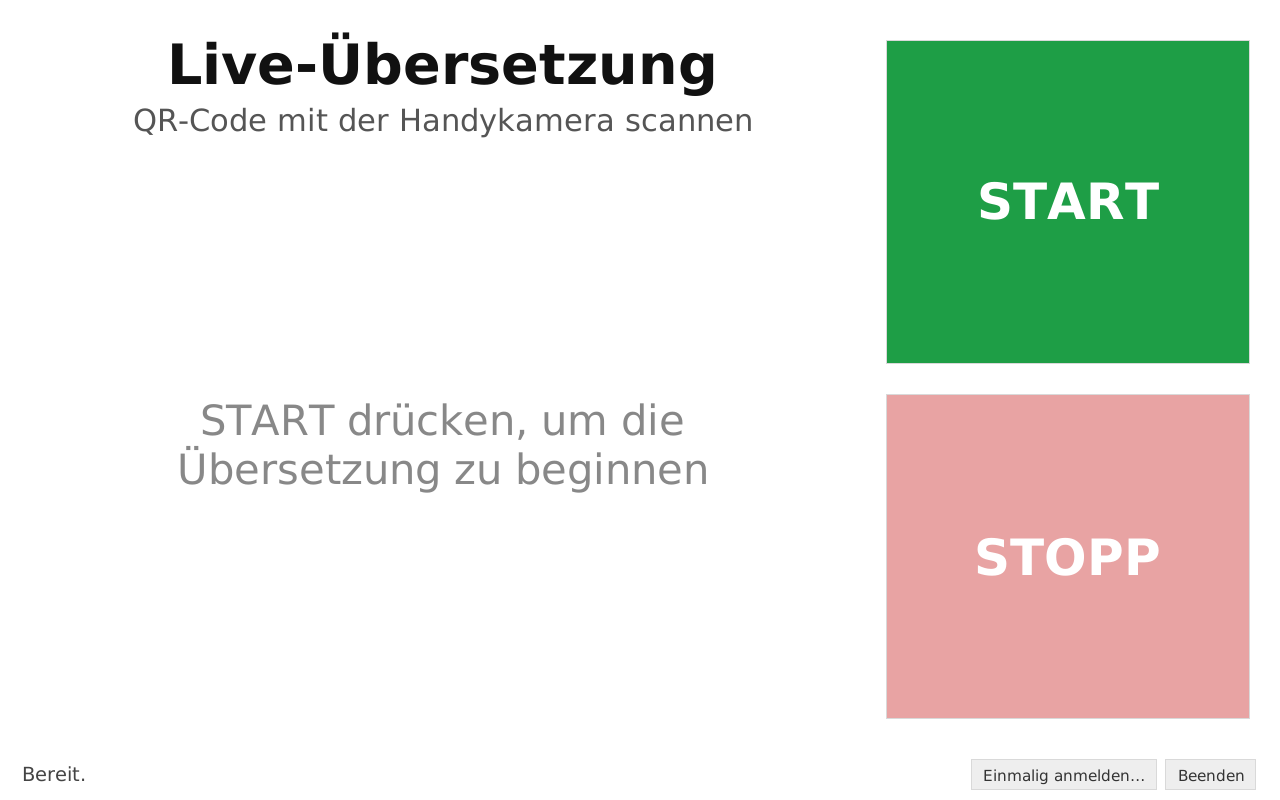
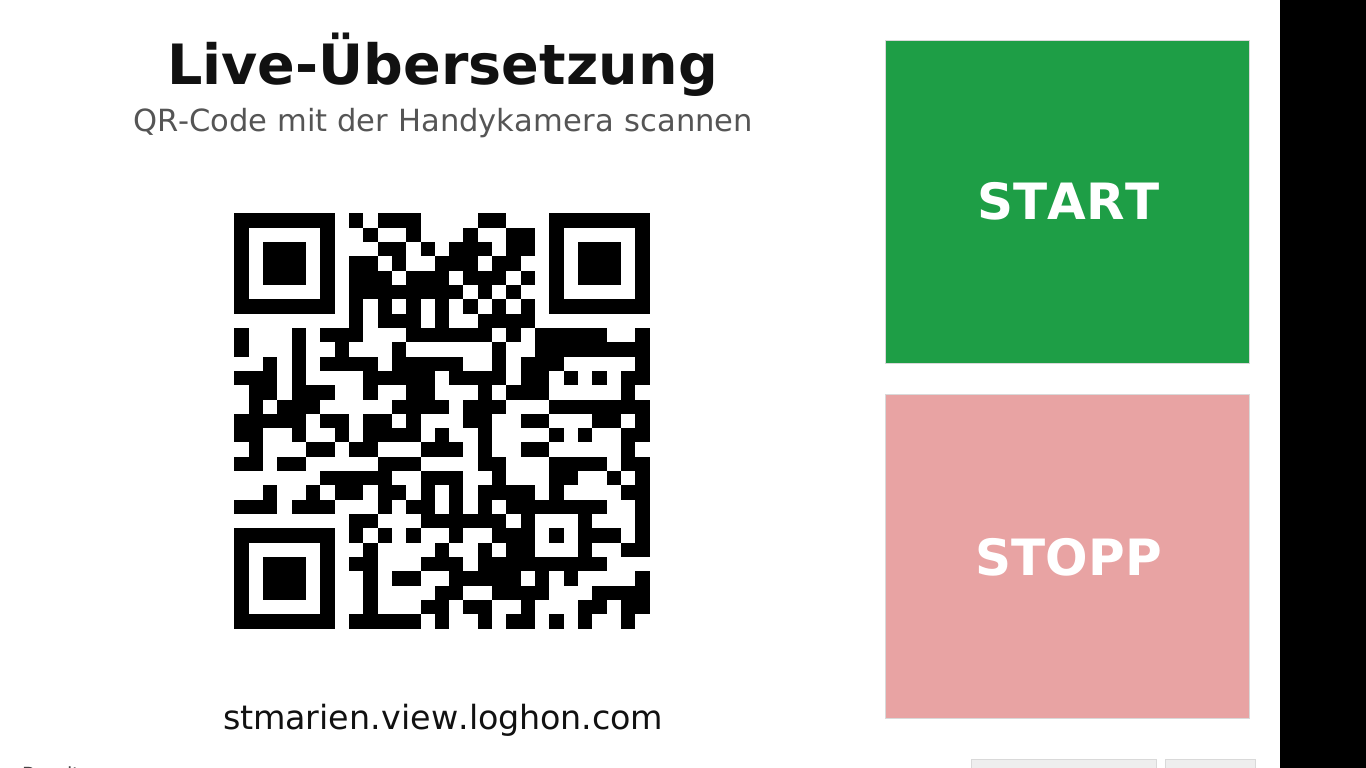
Fixed QR code from the start; make STOPP work with Loghon boxes open
- The QR code is the account's fixed viewer link (viewer_url), drawn by
  the app and shown from startup with the link as text. START checks for
  Loghon's 'Recording Active' instead of looking for a QR code.
- STOPP closes open Loghon dialogs (the viewer/QR box covered the stop
  button and swallowed the click), uses Loghon's #endTranslation button,
  and retries a covered click. After a failed stop, STOPP is enabled
  again; error messages are cut to one short line.
- run.sh installs new requirements (qrcode) after a git pull.

Claude-Session: https://claude.ai/code/session_01AYNLqbjaQqfuHUCQ7JjhBm

diff --git a/tests/mock_site/index.html b/tests/mock_site/index.html
@@ -18,8 +18,10 @@
   <button id="cancel">Cancel</button> <button id="rec">Start Recording</button>
 </div>
 <section id="live" hidden>
+  <div class="banner">Recording Active</div>
   <div class="qr-box"><canvas id="qr" width="200" height="200"></canvas></div>
-  <button id="stop">Stop</button>
+  <button id="endTranslation" title="End translation">&#9632;</button>
+  <dialog id="viewer"><h3>Viewer Access Settings</h3><button>Apply</button> <button>Cancel</button></dialog>
 </section>
 <pre id="log"></pre>
 <script>
@@ -47,8 +49,10 @@ $('rec').onclick = async () => {
   for (let i = 0; i < 20; i++) for (let j = 0; j < 20; j++)
     { c.fillStyle = (i * 7 + j * 3) % 5 < 2 ? '#000' : '#fff'; c.fillRect(i * 10, j * 10, 10, 10); }
   log('started');
+  // Like a person who opened the QR box and left it open, covering the page.
+  setTimeout(() => $('viewer').showModal(), 500);
 };
-$('stop').onclick = async () => {
+$('endTranslation').onclick = async () => {
   if ((await (await fetch('/stuck')).text()) === '1') return log('stop ignored'); if (confirm('End the translation?')) { $('live').hidden = true; $('app').hidden = false; log('stopped'); } };
 </script>
 </body></html>

diff --git a/loghon_kiosk/driver.py b/loghon_kiosk/driver.py
@@ -83,11 +83,15 @@ class LoghonDriver:
                     return
             except Exception as e:  # report everything to the UI
                 self._dump_debug(f"{cmd}-failed")
-                self.emit(("error", f"{CMD_DE.get(cmd, cmd)} fehlgeschlagen: {e}"))
+                # Keep it to one short line; the details go to the terminal.
+                short = str(e).strip().splitlines()[0][:160] if str(e).strip() else type(e).__name__
+                self.emit(("error", f"{CMD_DE.get(cmd, cmd)} fehlgeschlagen: {short}"))
                 traceback.print_exc()
                 if cmd == "start":
                     self._running = False
                     self.emit(("state", "idle"))
+                elif cmd == "stop" and self._running:
+                    self.emit(("state", "running"))  # STOPP can be pressed again
 
     # ---- browser lifecycle -------------------------------------------
     def _open_browser(self, visible: bool) -> Page:
@@ -233,14 +237,24 @@ class LoghonDriver:
             else:
                 self._dump_debug("no-start-recording")
 
-        self.emit(("status", "Warte auf den QR-Code…"))
-        png = self._grab_qr(page, timeout=self.s.step_timeout_seconds)
-        if png is None:
-            self._dump_debug("no-qr")
-            self.emit(("status", "Übersetzung gestartet, aber der QR-Code wurde auf der Seite nicht gefunden."))
+        if self.s.viewer_url:
+            # The QR code is the account's fixed viewer link, drawn by the app
+            # itself; just check that Loghon shows the recording as active.
+            if self._wait_text(page, self.s.running_texts, self.s.step_timeout_seconds):
+                self.emit(("status", "Die Übersetzung läuft."))
+            else:
+                self._dump_debug("not-recording")
+                self.emit(("error", "Gestartet, aber Loghon zeigt keine laufende Aufnahme. "
+                                    "Bitte im Loghon-Fenster nachsehen."))
         else:
-            self._publish_qr(png)
-            self.emit(("status", "Die Übersetzung läuft. QR-Code scannen."))
+            self.emit(("status", "Warte auf den QR-Code…"))
+            png = self._grab_qr(page, timeout=self.s.step_timeout_seconds)
+            if png is None:
+                self._dump_debug("no-qr")
+                self.emit(("status", "Übersetzung gestartet, aber der QR-Code wurde auf der Seite nicht gefunden."))
+            else:
+                self._publish_qr(png)
+                self.emit(("status", "Die Übersetzung läuft. QR-Code scannen."))
         self._running = True
         self.emit(("state", "running"))
 
@@ -301,6 +315,17 @@ class LoghonDriver:
             submit.click()
         else:
             pw.first.press("Enter")
+
+    @staticmethod
+    def _wait_text(page: Page, texts: list[str], timeout: float) -> bool:
+        if not texts:
+            return True
+        rx = re.compile("|".join(re.escape(t) for t in texts), re.I)
+        try:
+            page.get_by_text(rx).first.wait_for(state="visible", timeout=timeout * 1000)
+            return True
+        except Exception:
+            return False
 
     @staticmethod
     def _gone(loc: Locator, timeout: float) -> bool:
@@ -415,6 +440,8 @@ class LoghonDriver:
             self.emit(("error", "Das Loghon-Browserfenster wurde geschlossen."))
             self.emit(("state", "idle"))
             return
+        if self.s.viewer_url:
+            return  # fixed QR code, nothing to refresh
         try:
             loc = self._find_qr(page)
             if loc is not None:
@@ -435,9 +462,12 @@ class LoghonDriver:
             return True
         self.emit(("state", "stopping"))
         self.emit(("status", "Übersetzung wird gestoppt…"))
-        btn = self._find_clickable(page, self.s.stop_buttons, timeout=self.s.step_timeout_seconds)
+        # Boxes left open on the Loghon page (e.g. the QR/viewer settings)
+        # lie on top of the stop button and swallow the click.
+        self._close_overlays(page)
+        btn = self._find_stop_button(page, timeout=self.s.step_timeout_seconds)
         if btn:
-            btn.click()
+            self._click(page, btn)
             self._settle(page)
             for text in self.s.confirm_stop_buttons:
                 loc = self._find_clickable(page, [text], timeout=2)
@@ -461,7 +491,7 @@ class LoghonDriver:
     def _stop_button_gone(self, page: Page, timeout: float = 10) -> bool:
         deadline = time.time() + timeout
         while time.time() < deadline:
-            if self._find_clickable(page, self.s.stop_buttons, timeout=0) is None:
+            if self._find_stop_button(page, timeout=0) is None:
                 return True
             page.wait_for_timeout(500)
         return False
@@ -477,6 +507,43 @@ class LoghonDriver:
             page.bring_to_front()
         except Exception:
             pass  # headless mode has no window to show
+
+    def _find_stop_button(self, page: Page, timeout: float) -> Locator | None:
+        deadline = time.time() + timeout
+        while True:
+            for sel in self.s.stop_selectors:  # Loghon's own button id first
+                loc = page.locator(sel)
+                try:
+                    if loc.count() and loc.first.is_visible() and loc.first.is_enabled():
+                        return loc.first
+                except Exception:
+                    pass
+            btn = self._find_clickable(page, self.s.stop_buttons, timeout=0)
+            if btn or time.time() >= deadline:
+                return btn
+            page.wait_for_timeout(400)
+
+    @staticmethod
+    def _close_overlays(page: Page) -> None:
+        try:
+            page.keyboard.press("Escape")
+            page.evaluate("document.querySelectorAll('dialog[open]').forEach(d => d.close())")
+            page.wait_for_timeout(300)
+        except Exception:
+            pass
+
+    def _click(self, page: Page, loc: Locator) -> None:
+        """Click; if something still covers the button, close it and retry."""
+        try:
+            loc.click(timeout=5000)
+            return
+        except Exception:
+            pass
+        self._close_overlays(page)
+        try:
+            loc.click(timeout=5000)
+        except Exception:
+            loc.dispatch_event("click")  # same as the page's own click handler
 
     def _safe_stop_on_quit(self) -> bool:
         if not self._running:

diff --git a/loghon_kiosk/app.py b/loghon_kiosk/app.py
@@ -8,6 +8,7 @@ import sys
 import tkinter as tk
 from tkinter import messagebox
 
+import qrcode
 from PIL import Image, ImageTk
 
 from . import config
@@ -53,6 +54,11 @@ class KioskApp:
         self.sub_lbl.pack(side="top", pady=(0, 10))
         self.qr_lbl = tk.Label(left, bg=BG, fg="#888", font=("DejaVu Sans", 30),
                                text="START drücken, um die\nÜbersetzung zu beginnen")
+        if settings.viewer_url:
+            # The link in plain text, for phones that cannot scan.
+            self.url_lbl = tk.Label(left, text=settings.viewer_url.split("://", 1)[-1],
+                                    bg=BG, fg=FG, font=("DejaVu Sans", 24))
+            self.url_lbl.pack(side="bottom", pady=(5, 0))
         self.qr_lbl.pack(side="top", fill="both", expand=True)
         self.qr_lbl.bind("<Configure>", lambda e: self._render_qr())
 
@@ -77,14 +83,16 @@ class KioskApp:
         bottom = tk.Frame(root, bg=BG)
         bottom.grid(row=1, column=0, columnspan=2, sticky="ew", padx=20, pady=(0, 10))
         self.status = tk.Label(bottom, text="Bereit.", bg=BG, fg="#444", anchor="w",
-                               font=("DejaVu Sans", 14))
+                               justify="left", wraplength=900, font=("DejaVu Sans", 14))
         self.status.pack(side="left", fill="x", expand=True)
         small = dict(font=("DejaVu Sans", 11), relief="flat", bg="#eee", fg="#333", bd=0, padx=10, pady=4)
         tk.Button(bottom, text="Beenden", command=self.quit, **small).pack(side="right", padx=4)
         self.setup_btn = tk.Button(bottom, text="Einmalig anmelden…", command=self.on_setup, **small)
         self.setup_btn.pack(side="right", padx=4)
 
-        if settings.show_cached_qr and settings.qr_cache.exists():
+        if settings.viewer_url:
+            self.qr_png = make_qr(settings.viewer_url)  # fixed: shown all the time
+        elif settings.show_cached_qr and settings.qr_cache.exists():
             self.qr_png = settings.qr_cache.read_bytes()
             self.sub_lbl.config(text=settings.subtitle + "  (läuft noch nicht)")
 
@@ -122,9 +130,9 @@ class KioskApp:
             while True:
                 kind, value = self.events.get_nowait()
                 if kind == "status":
-                    self.status.config(text=value, fg="#444")
+                    self.status.config(text=value[:200], fg="#444")
                 elif kind == "error":
-                    self.status.config(text=value, fg=RED)
+                    self.status.config(text=value[:200], fg=RED)
                 elif kind == "qr":
                     self.qr_png = value
                     self.sub_lbl.config(text=self.s.subtitle)
@@ -149,7 +157,7 @@ class KioskApp:
                              bg=RED if stop_on else RED_DIM,
                              text="STOPPT…" if state == "stopping" else "STOPP")
         self.setup_btn.config(state="normal" if start_on else "disabled")
-        if state == "idle" and not (self.s.show_cached_qr and self.qr_png):
+        if state == "idle" and not self.s.viewer_url and not (self.s.show_cached_qr and self.qr_png):
             self.qr_png = None
             self._render_qr()
 
@@ -167,6 +175,15 @@ class KioskApp:
         photo = ImageTk.PhotoImage(img)
         self.qr_lbl.config(image=photo, text="")
         self.qr_lbl.image = photo
+
+
+def make_qr(url: str) -> bytes:
+    q = qrcode.QRCode(error_correction=qrcode.constants.ERROR_CORRECT_M, box_size=10, border=4)
+    q.add_data(url)
+    q.make(fit=True)
+    buf = io.BytesIO()
+    q.make_image(fill_color="black", back_color="white").save(buf)
+    return buf.getvalue()
 
 
 def main(argv: list[str] | None = None) -> int:

diff --git a/loghon_kiosk/config.py b/loghon_kiosk/config.py
@@ -34,6 +34,7 @@ def _list(value: str) -> list[str]:
 class Settings:
     start_url: str = "https://app.loghon.com/"
     translation_url: str = ""
+    viewer_url: str = ""
     email: str = ""
     password: str = ""
 
@@ -59,6 +60,8 @@ class Settings:
     qr_selectors: list[str] = field(default_factory=list)
     stop_buttons: list[str] = field(default_factory=list)
     confirm_stop_buttons: list[str] = field(default_factory=list)
+    running_texts: list[str] = field(default_factory=list)
+    stop_selectors: list[str] = field(default_factory=list)
 
     profile_dir: Path = DATA_DIR / "browser-profile"
     log_dir: Path = DATA_DIR / "logs"
@@ -94,6 +97,7 @@ def load(path: Path | None = None) -> Settings:
     s = Settings(
         start_url=acc.get("start_url", Settings.start_url).strip(),
         translation_url=acc.get("translation_url", "").strip(),
+        viewer_url=acc.get("viewer_url", "").strip(),
         email=(os.environ.get("LOGHON_USERNAME") or os.environ.get("LOGHON_EMAIL")
                or acc.get("username", "") or acc.get("email", "")).strip(),
         password=os.environ.get("LOGHON_PASSWORD", acc.get("password", "")),
@@ -117,6 +121,8 @@ def load(path: Path | None = None) -> Settings:
         qr_selectors=labels("qr_selectors"),
         stop_buttons=labels("stop_buttons"),
         confirm_stop_buttons=labels("confirm_stop_buttons"),
+        running_texts=labels("running_texts"),
+        stop_selectors=labels("stop_selectors"),
     )
     for d in (s.profile_dir, s.log_dir):
         d.mkdir(parents=True, exist_ok=True)

diff --git a/tests/test_driver.py b/tests/test_driver.py
@@ -81,7 +81,10 @@ def main():
         print(f"round {round_}: start")
         d.submit("start")
         seen = wait_state(events, "running")
-        assert any(k == "qr" for k, _ in seen), "no QR code captured"
+        if s.viewer_url:  # fixed QR: the page must show the recording as active
+            assert ("status", "Die Übersetzung läuft.") in seen, seen
+        else:
+            assert any(k == "qr" for k, _ in seen), "no QR code captured"
         print("  page log:", PAGE_LOG)
         assert sorted(PAGE_LOG[-3:]) == ["audio=true", "mic ok", "started"], PAGE_LOG
         assert not any("WRONG" in m for m in PAGE_LOG)

diff --git a/README.md b/README.md
@@ -106,8 +106,13 @@ Or send the screenshot from the `logs` folder to whoever maintains this repo.
 | `record.sh` | Records a walk-through of the real site (Playwright codegen) |
 | `tests/test_driver.py` | End-to-end test against a mock Loghon page in `tests/mock_site/` |
 
-The QR code is a screenshot of the code Loghon draws on its page, scaled up
-with sharp edges, and refreshed every 10 seconds while running. The microphone
+The QR code is the account's fixed public viewer link (`viewer_url` in
+`config.ini`, Loghon's "Public username link"). The app draws it itself and
+shows it all the time, with the link in plain text under it; it opens the
+live session while one runs. START logs in, starts a session, clicks
+"Start Recording" in Loghon's Session Setup box and checks that Loghon shows
+"Recording Active". STOPP closes any open Loghon box, presses Loghon's stop
+button (`#endTranslation`) and waits until it is gone. The microphone
 prompt is accepted automatically (`--use-fake-ui-for-media-stream` only
 auto-accepts the prompt; it still uses the real microphone).
 
